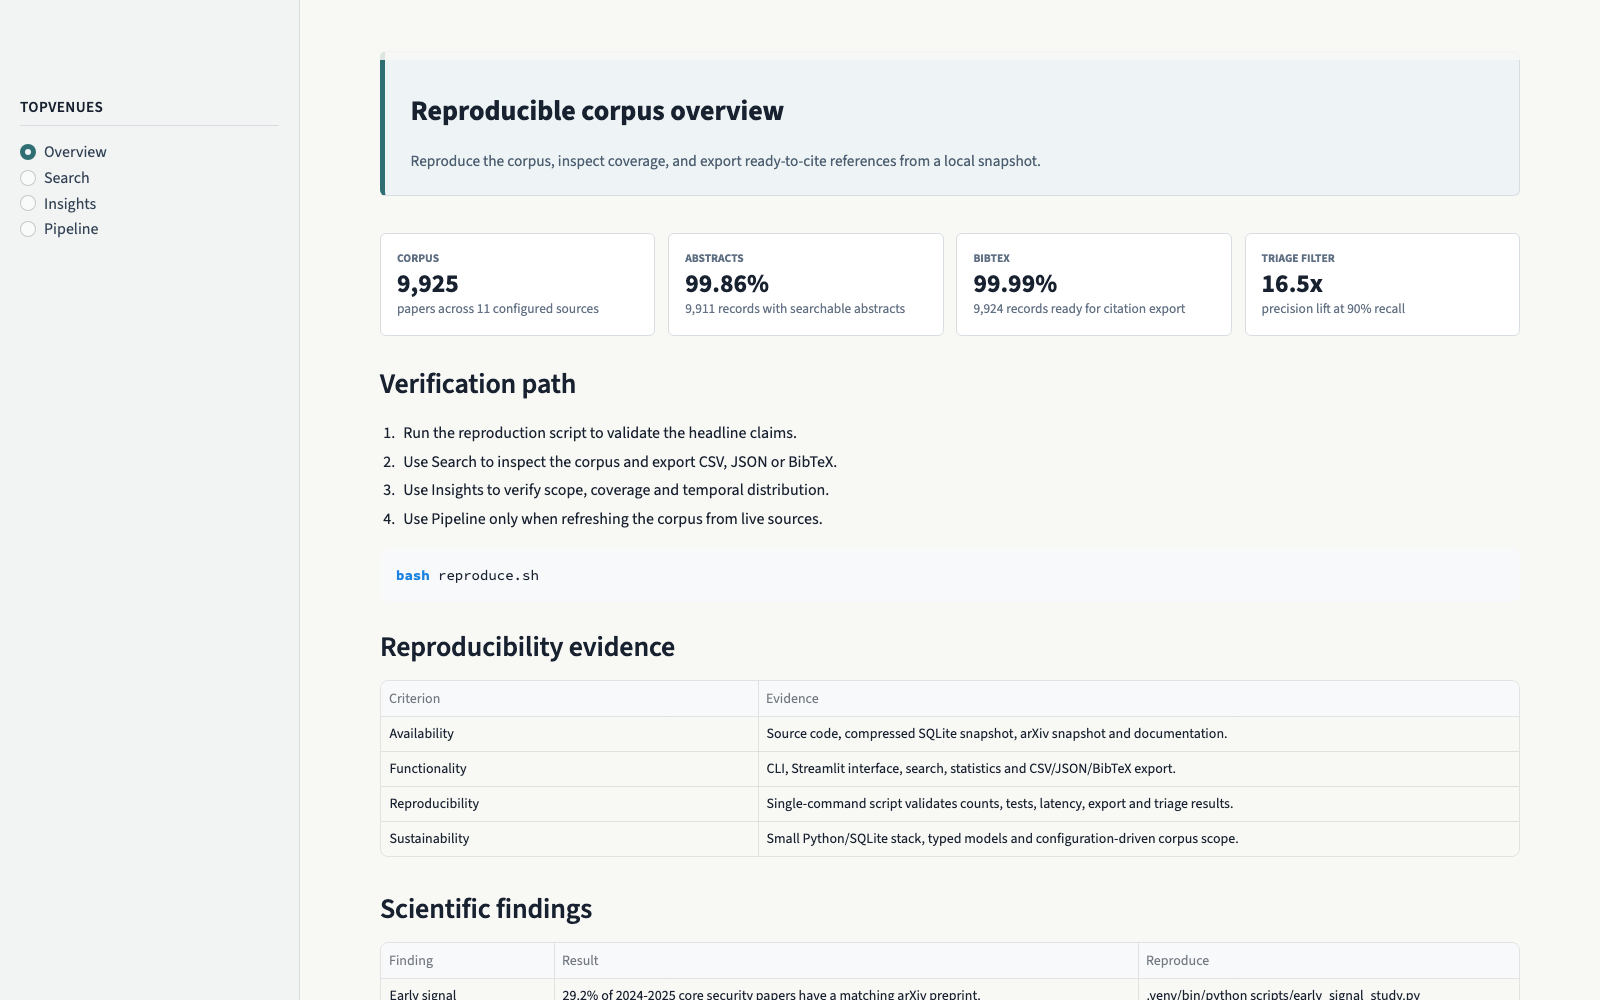
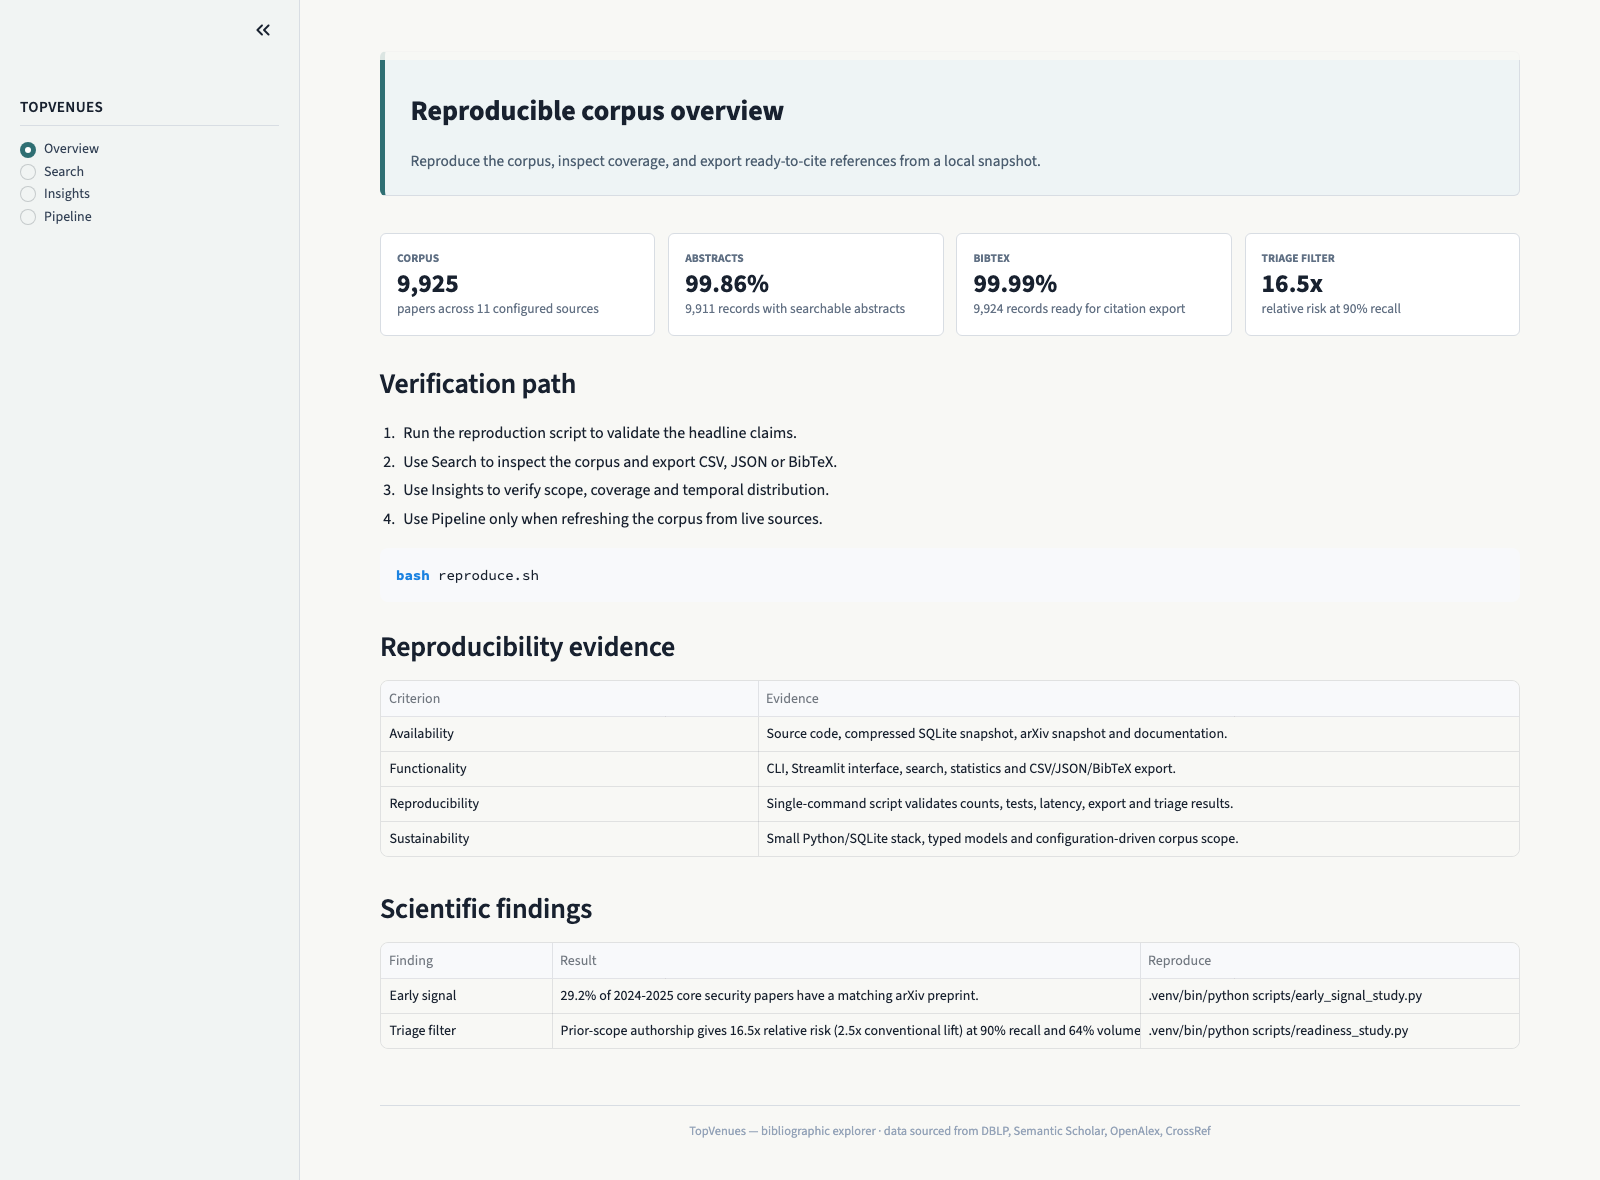
Bring the documentation in line with the artifact
The overview screenshot still labeled the triage figure a precision lift, the
wording the metric correction replaced, so it is recaptured from the current
interface against the frozen corpus.

The validation README still opened with the audit described as pending and
explained a two-labeler summary program that no longer exists. It now describes
the audit as completed, documents what the summary program actually prints, and
notes that the raw pilot responses are produced on a rerun rather than shipped.

diff --git a/evaluation/baseline_validation/README.md b/evaluation/baseline_validation/README.md
@@ -93,7 +93,8 @@ The script writes:
 - `pilot_observations.csv`: one row per sampled paper and service;
 - `pilot_summary.json`: counts, latency, logical requests, and OpenAlex
   server-reported API-budget metering;
-- `pilot_raw_responses.json.gz`: timestamped live response bodies for audit.
+- `pilot_raw_responses.json.gz`: timestamped live response bodies, written on a
+  rerun and not shipped with the artifact.
 
 By default, a rerun writes these files under a fresh timestamped `reruns/`
 directory. `--output-dir /new/empty/directory` selects another location. The
@@ -125,35 +126,28 @@ per-response API-budget meter. New runs use the explicit field
 separately from network attempts. They sum values across attempts that expose
 the meter and report whether metering coverage is complete or partial.
 
-## Manual audit remains open
+## Manual audit
 
 `manual_labels.csv` holds the completed labels and `manual_protocol.md`
-describes the process as executed.
+describes the process as executed: one author labeled all 200 records against
+the publisher sources, recording the evidence URL, the access date, and the
+corrected abstract for every defect.
 
-After two distinct authors independently label all 200 rows, preserve their
-evidence URLs and access dates, and adjudicate every disagreement, run:
+To recompute the reported figures from those labels:
 
 ```bash
 python summarize_manual_audit.py
 ```
 
 The utility is intentionally offline: it neither queries APIs nor proposes
-labels. It refuses a partial worksheet, inconsistent annotator identities,
-invalid labels, missing evidence, or undocumented disagreements. Only a
-complete sheet produces `manual_audit_summary.json`, containing raw agreement,
-Cohen's kappa over the six verifiable categories, adjudicated label counts, an
-unweighted strict-correctness estimate with an exact 95% Clopper--Pearson
-interval, and a venue-weighted estimate. The unequal-weight estimate does not
-receive an ordinary binomial interval because that would impose an invalid IID
-sampling model. The committed blank worksheet is expected to fail this check;
-that refusal is the guardrail, not an error to bypass.
+labels. It refuses an incomplete set of labels or any record without an
+evidence URL, and otherwise prints the validity rate with an exact
+Clopper-Pearson interval, the per-venue breakdown, and the population-weighted
+estimate. The interval is derived by inverting the binomial tails directly, so
+the figure matches the paper without depending on a numerical stack.
 
-The submitted SQLite schema also lacks an `abstract_source` field. Local
-extraction logs are not part of the released snapshot, and the code has no PDF
-abstract-extraction stage. Therefore the existing phrase “a small number of
-abstracts are reconstructed from PDF text” has no auditable count. Do not invent
-one: recover a provenance manifest from contemporaneous logs/manual records, or
-state that the submitted snapshot cannot distinguish those records.
+`labeling_tool.html` is the instrument that produced the labels, included so
+the interface behind them is inspectable.
 
 ## External-service facts used in interpretation
 